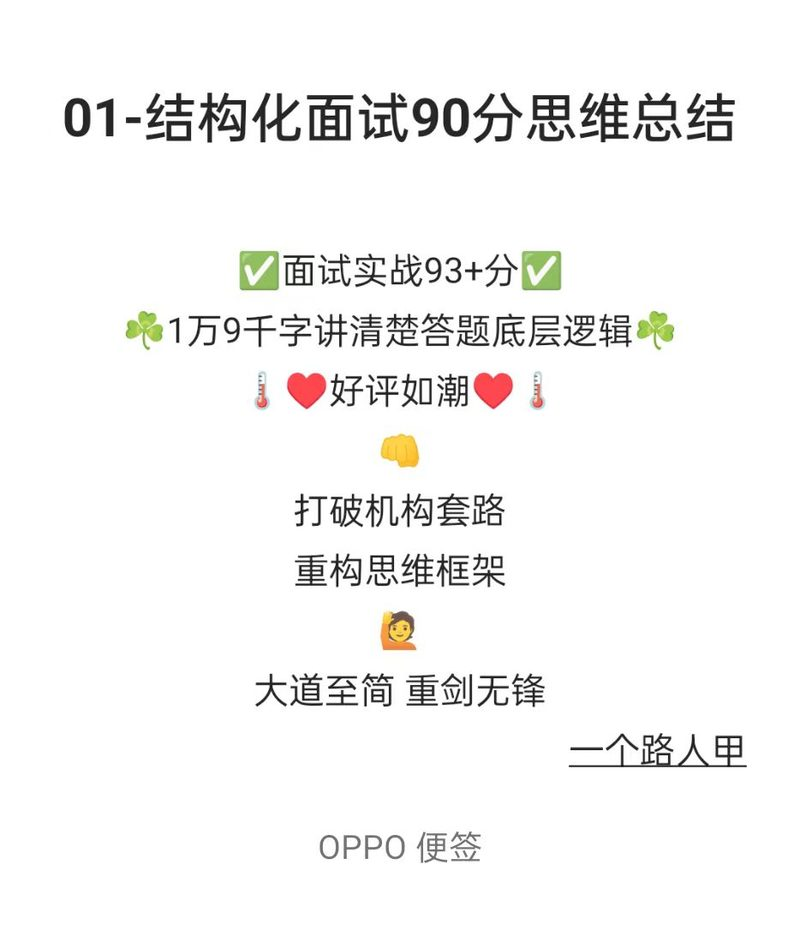
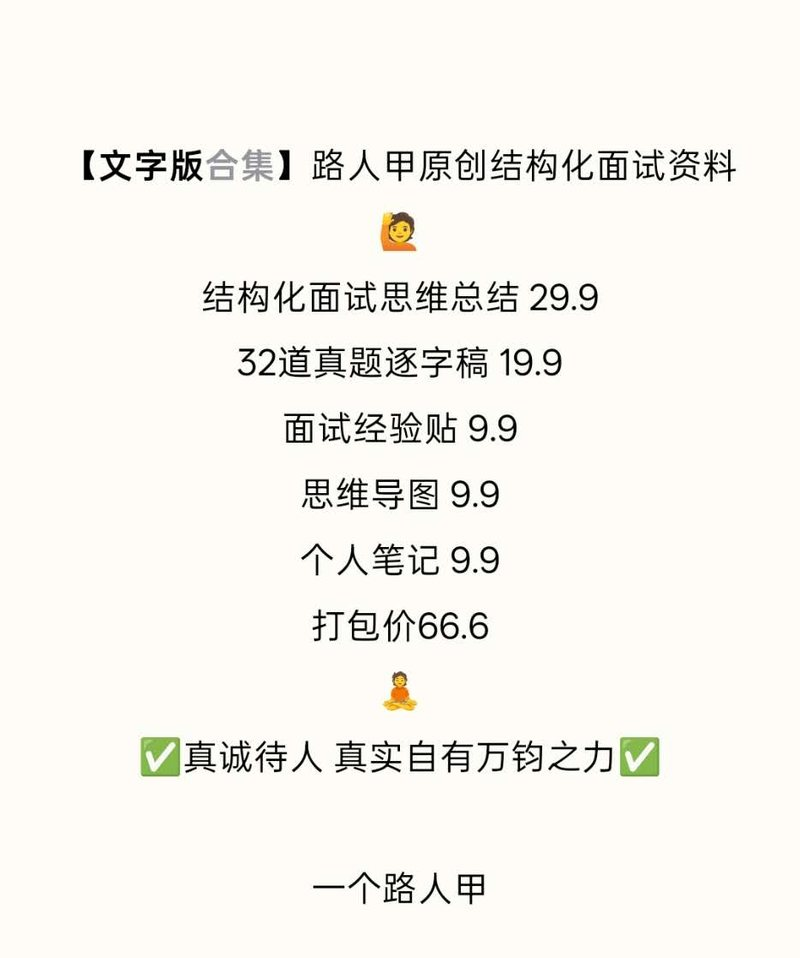
优化商品页

Changed region(s): [[0.1562, 0.2183, 0.9375, 0.8419], [0.0625, 0.0935, 0.9375, 0.1871], [0.375, 0.8731, 0.625, 0.9667]]

diff --git a/guide/resources.md b/guide/resources.md
@@ -19,15 +19,16 @@
     <p class="lrj-price-note">标价为原价 · 扫码进店可叠加平台优惠</p>
     <p>全部课程 237 分钟，不到 4 小时。没有金句、没有模板、没有万能词，只讲逻辑和思路。适合自学没方向、报班没效果，或者想要一套完整方法论的你。</p>
     <ul class="lrj-feature-list">
-      <li><b>逻辑优先</b>：不靠话术和套话，讲的是思路怎么长出来</li>
+      <li><b>逻辑优先</b>：不靠话术和套话，讲的是结构化面试的底层思考方式</li>
       <li><b>学习方法论专章</b>：这部分以前只在一对一课上讲（400 元一节课，好评率 100%），这次单独录了一整章</li>
       <li><b>四大题型全覆盖</b>：综合分析 / 组织管理 / 人际关系 / 应急应变</li>
-      <li><b>篇幅精简</b>：理论课越短越好，省下的时间留给开口练习</li>
+      <li><b>篇幅精简</b>：理论课只有不到4小时，省下的时间留给开口练习</li>
       <li><b>看完不满意可退</b>：老规矩，觉得不值直接找我</li>
     </ul>
     <a class="lrj-btn" href="/guide/resources?id=怎么买">怎么买 ↓</a>
   </div>
 </div>
+
 
 <div class="lrj-shot-row">
   <figure class="lrj-shot">
@@ -49,13 +50,13 @@
 | 章节 | 时长 | 讲什么 |
 |------|------|--------|
 | 绪论 | 13 分钟 | 教学特点与课程目标、结构化面试的题型分类 |
-| 学习方法论 | 72 分钟 | 实战导向、抓大放小；把「逻辑构建」和「语言组织」拆开训练，配套训练方法与工具 |
+| 学习方法论 | 72 分钟 | 指导思想：实战导向、抓大放小；把「逻辑构建」和「语言组织」拆开训练；介绍配套训练方法与工具 |
 | 综合分析 | 35 分钟 | 来龙去脉法：是什么 → 为什么 → 怎么办；思路进阶；虚实结合 |
-| 组织管理 | 45 分钟 | 以事前-事中-事后为主线，怎么抓住重点，问题导向的体系化方案 |
-| 人际关系 | 40 分钟 | 情理行三步走；隐藏考察点：视角转化 |
+| 组织管理 | 45 分钟 | 以事前-事中-事后为主线，怎么抓住重点，问题导向的体系化活动组织方案 |
+| 人际关系 | 40 分钟 | 情理行三步走；隐藏考察点：视角转化（不仅仅是“阳光心态”） |
 | 应急应变 | 28 分钟 | 由浅入深的处理顺序与基本分析思路 |
 
-合计 **237 分钟，不到 4 小时**。理论课越短越好，省下的时间都该拿去开口练习。
+合计 **237 分钟，不到 4 小时**。我觉得4小时已经能把核心问题讲清楚，关键还是要多一些时间多开口练习。
 
 ---
 
@@ -74,12 +75,13 @@
       <li><b>《答题思维总结》</b>约 3 万字，五类题型的答题思路逐一梳理，每页都是能直接上手用的框架</li>
       <li><b>《答题示例（逐字稿）》</b>经典 32 题，共 2.7 万字，每题都是我亲自答、亲手写的</li>
       <li><b>《面试经验帖》</b>自己备考的一些方法和思路总结，小白先看这个</li>
-      <li><b>《个人笔记素材库》</b>表格版，附赠 Anki 卡片集</li>
+      <li><b>《个人笔记素材库》</b></li>
       <li><b>《政策理论思维导图》</b>PNG 图片 + XMind 源文件</li>
     </ul>
-    <p>材料原创率 100%，收到最多的评价是「醍醐灌顶」。买前建议问自己一句：愿不愿意配合练习用。答案是不愿意，那就先把网站上的免费内容吃透。</p>
+    <p>材料原创率 100%，收到最多的评价是「醍醐灌顶」。</p>
   </div>
 </div>
+
 
 <div class="lrj-preview-row">
   <figure>

diff --git a/.workbuddy/memory/2026-10-19.md b/.workbuddy/memory/2026-10-19.md
@@ -121,4 +121,10 @@
 
 **当前 assets/img 清单**：course-main / course-mindmap / course-live / course-notes / materials-cover / materials-toc / materials-dictation / preview-summary-p1 / preview-summary-toc / preview-dictation-toc / preview-dictation / reviews-1 / reviews-2 / xhs-qr / wechat-qr / logo（16 张，页面 15 张全部加载正常）。
 
+## 配图回退修复（16:08）
+
+原因：上一轮 `git rm` 事故后用 `git checkout -- assets` 恢复，`materials-cover.jpg` 被还原成**已提交的旧版本**（01思维总结.jpg，800×930），新首图（800×958）是未提交状态所以丢了。
+处理：用 `00路人甲结构化面试文字资料合集首图.jpg` 重新生成（800×958，53KB）。验证：bundle 图 naturalWidth 800 / naturalHeight 958，页面 15 张图 0 失败，文字大纲 6 行、内页预览 4 张均完好。
+经验：**恢复目录后，必须检查所有未提交的新资源是否回退**，图片不能只看文件名存在。
+
 
